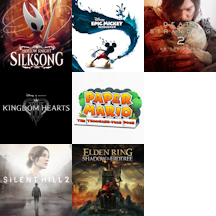
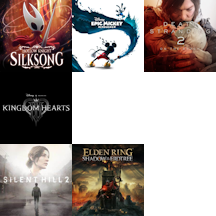
Update release radar

Changed region(s): [[0.3333, 0.3889, 0.6667, 0.6111]]

diff --git a/_includes/sidebar.html b/_includes/sidebar.html
@@ -32,12 +32,11 @@
             <img src="/resources/png/B1cZjrwAuuPI9Cyd/blank.png" id="silksong" title="Hollow Knight: Silksong">
             <img src="/resources/png/B1cZjrwAuuPI9Cyd/blank.png" id="kh4" title="Kingdom Hearts IV">
             <img src="/resources/png/B1cZjrwAuuPI9Cyd/blank.png" id="ds2" title="Death Stranding 2: On the Beach">
-            <img src="/resources/png/B1cZjrwAuuPI9Cyd/blank.png" id="ttyd" title="Paper Mario: The Thousand-Year Door">
+            <img src="/resources/png/B1cZjrwAuuPI9Cyd/blank.png" id="sote" title="Elden Ring: Shadow of the Erdtree DLC">
         </div>
         <div class="flex rrdiv">
             <img src="/resources/png/B1cZjrwAuuPI9Cyd/blank.png" id="sh2" title="Silent Hill 2 Remake">
             <img src="/resources/png/B1cZjrwAuuPI9Cyd/blank.png" id="mick" title="Epic Mickey: Rebrushed">
-            <img src="/resources/png/B1cZjrwAuuPI9Cyd/blank.png" id="sote" title="Elden Ring: Shadow of the Erdtree DLC">
         </div>
         <p><a href="/records/games">View all played games</a></p>
     </div>
